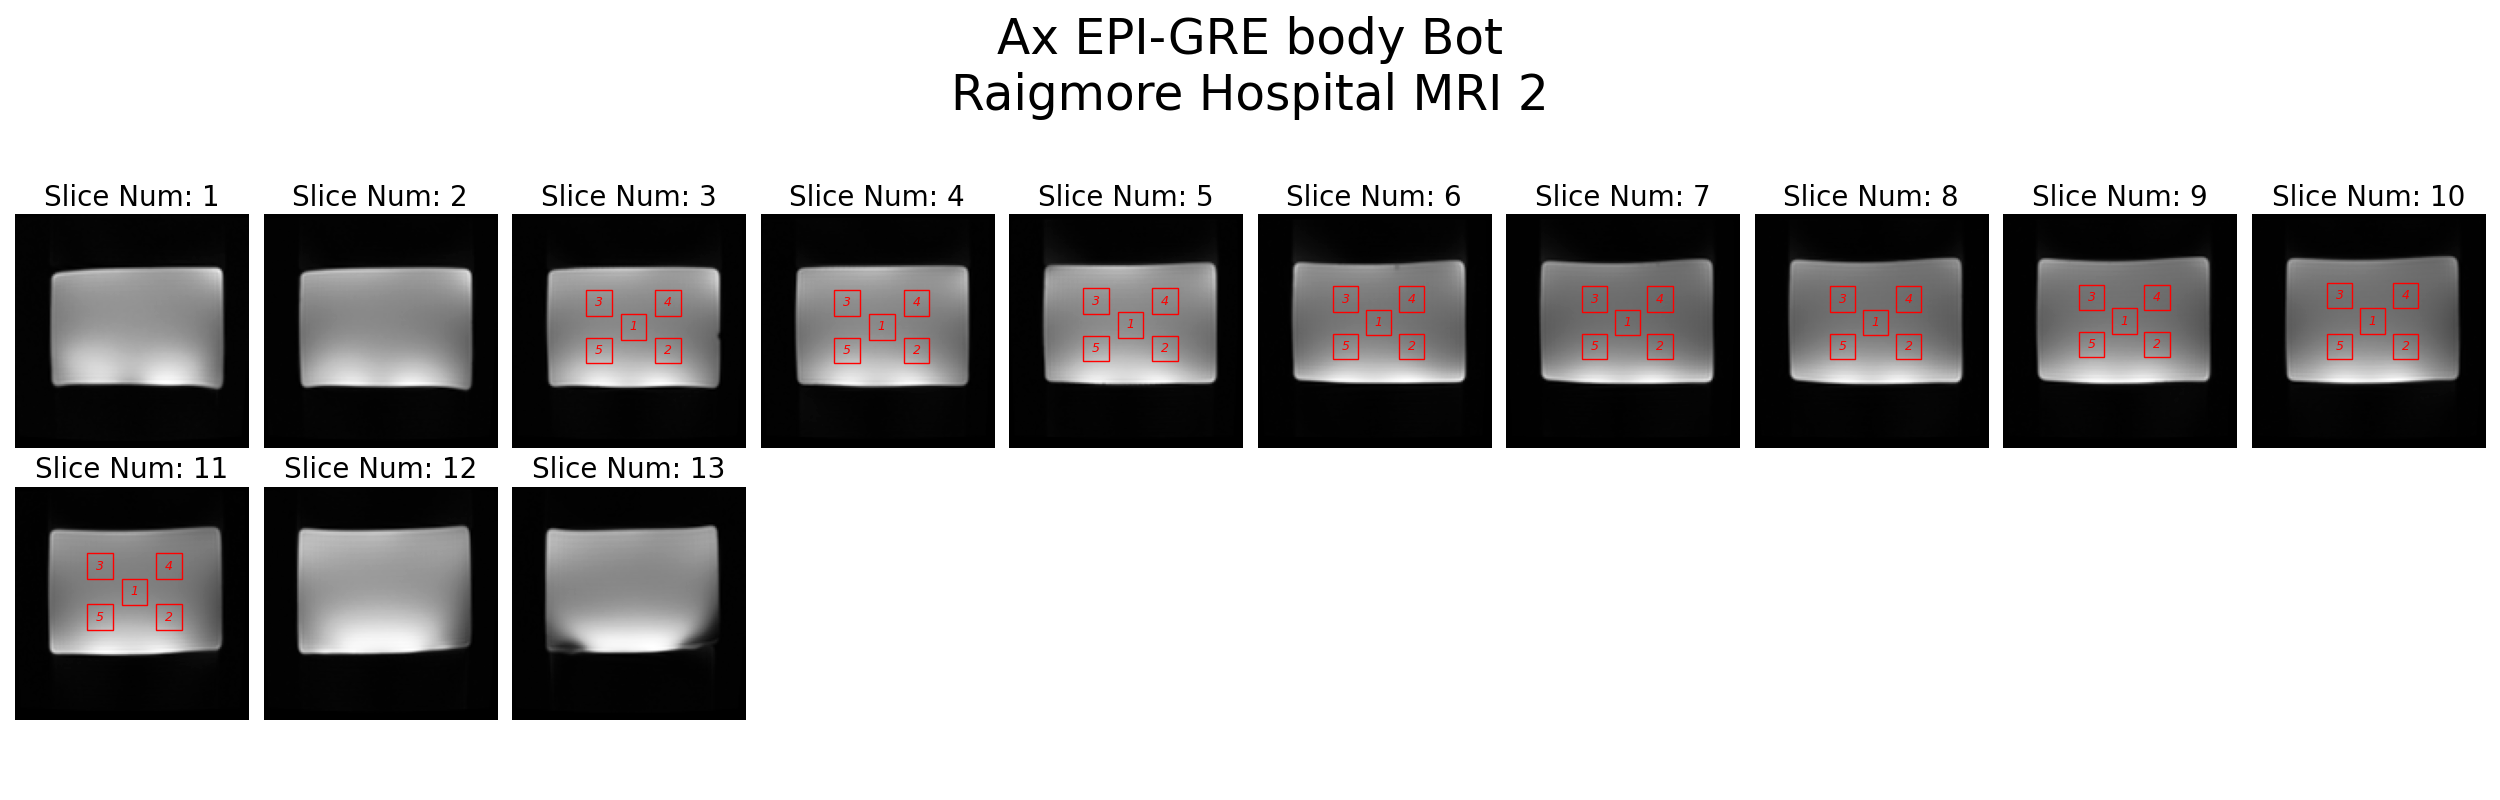
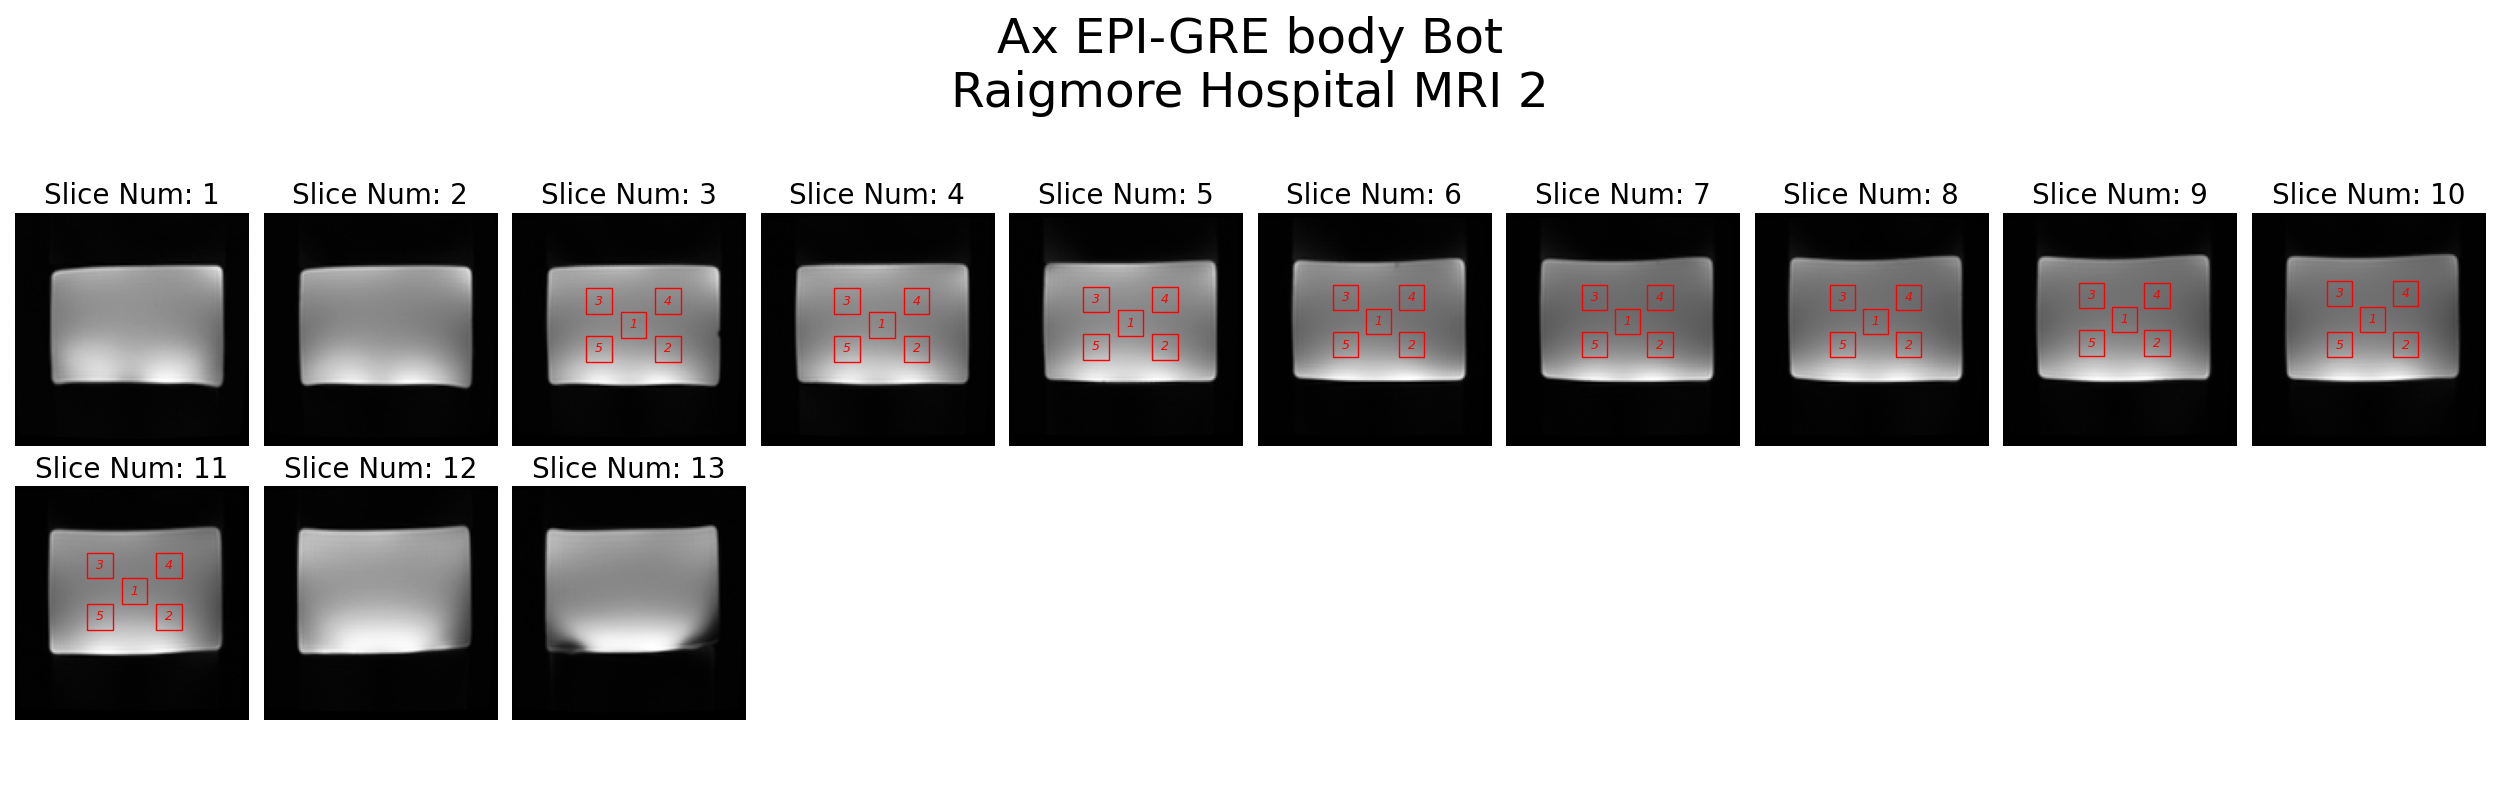
changing daily qa to be a 9x9 filter

diff --git a/DQA_Scripts/SmoothingMethod.py b/DQA_Scripts/SmoothingMethod.py
@@ -10,6 +10,7 @@ import cv2 as cv
 import matplotlib.patches as patches
 import math
 from DQA_Scripts import Helper
+from scipy import ndimage
 
 def PlotROIS(ROIS,ROISize,RoiSizeHalf,BinaryMap,Image,col,row,axs,sliceNum,RejectedSlices):
     axs[row,col].set_axis_on()
@@ -42,21 +43,26 @@ def SmoothedImageSubtraction(ImageData,KernalSize,ROISizeArg=None,Thresh=None, w
 
     for i in range(ImageData.shape[2]):
         Image = ImageData[:,:,i]
+        Image = Image.astype(int)
         ROIs = []
         RoiSizeHalf=None
         BinaryMapSignal=None
         if i not in RejectedSlices:
-            MatrixSize = (KernalSize*2+1)**2
-            kernel = np.ones((MatrixSize,MatrixSize),np.float32)/(MatrixSize*MatrixSize)
-            Smoothed = cv.filter2D(Image,-1,kernel)
+            #The paper says 9x9 is the best so lets go with that
+            Smoothed = ndimage.uniform_filter(Image, 9, mode="constant")
             Difference = Image - Smoothed
 
-            #plt.clf()
-            #plt.imshow(Image)
-            #plt.show()
+            if i == 6:
+                import matplotlib
+                matplotlib.use('TkAgg')
+                fig, (ax1, ax2,ax3) = plt.subplots(1, 3)
+                fig.suptitle('Horizontally stacked subplots')
+                ax1.imshow(Image)
+                ax2.imshow(Smoothed)
+                ax3.imshow(Difference)
+                plt.show()
             
             ThreshRel = np.max(Image)*Thresh
-
             BinaryMapSignal = np.copy(Image)
             High = np.where(BinaryMapSignal>=ThreshRel)
             Low = np.where(BinaryMapSignal<ThreshRel)
